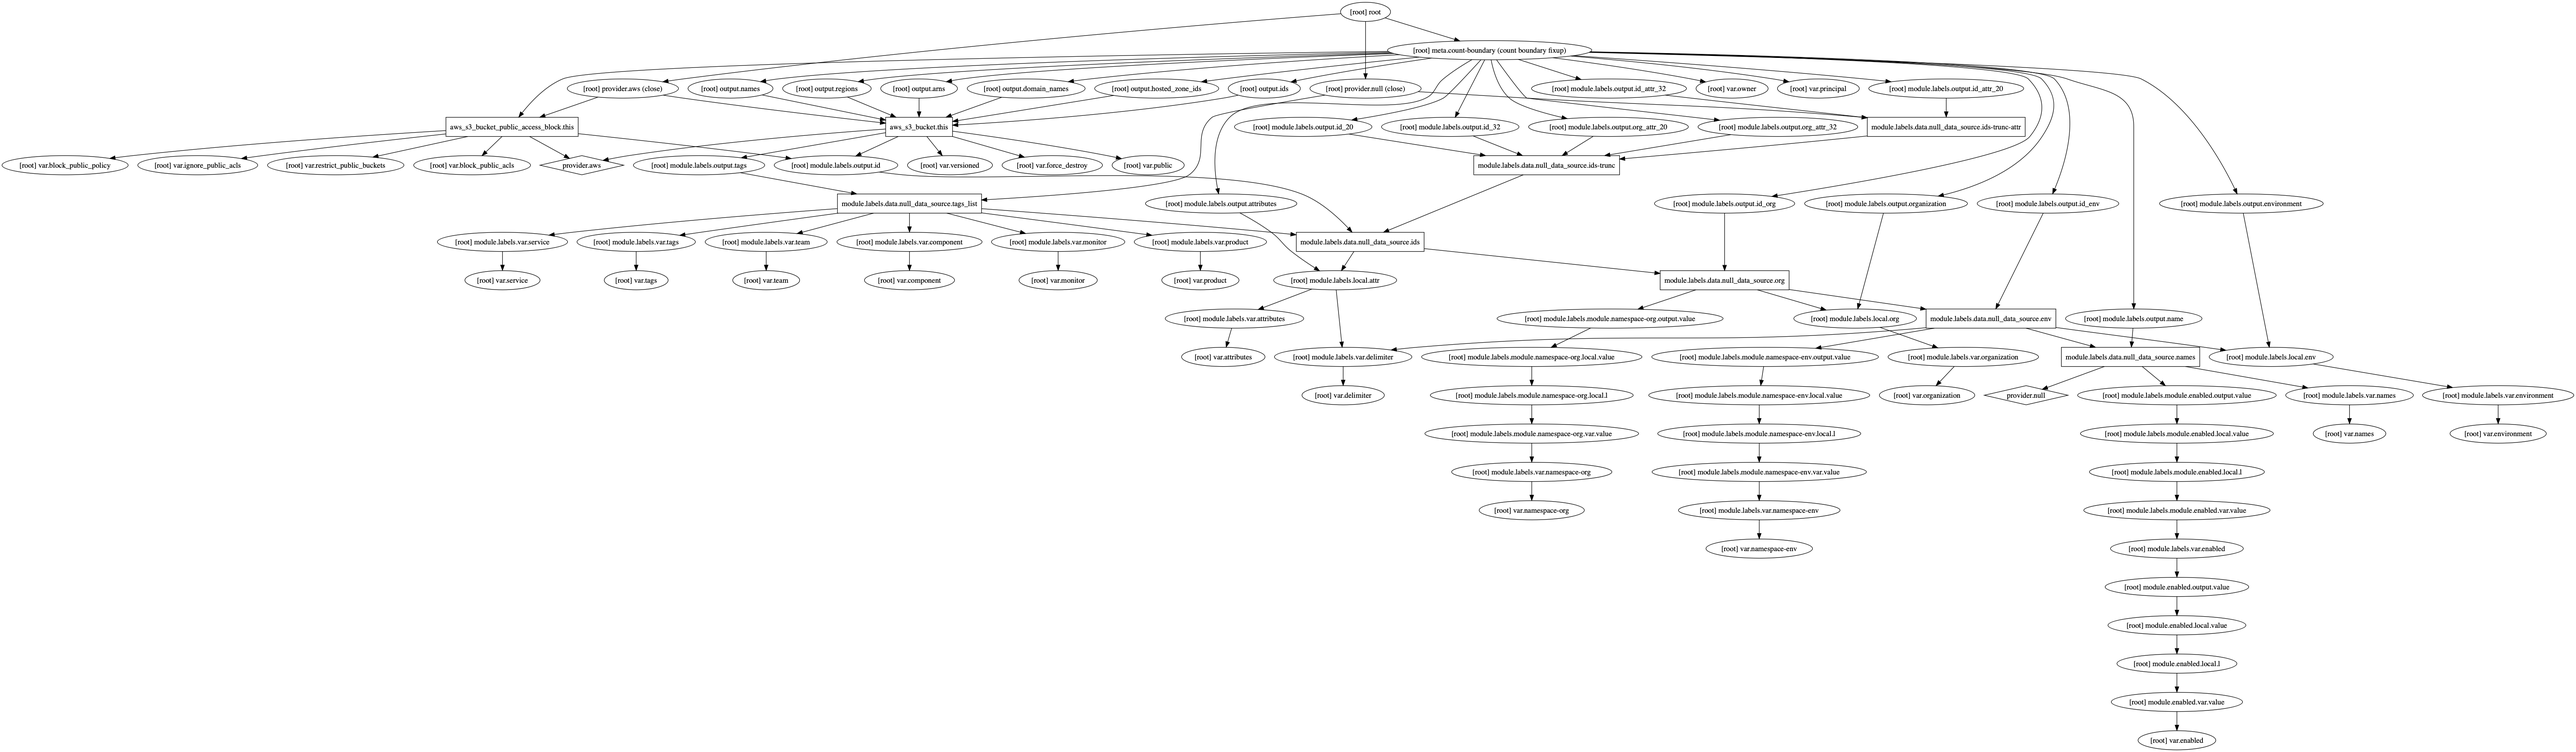
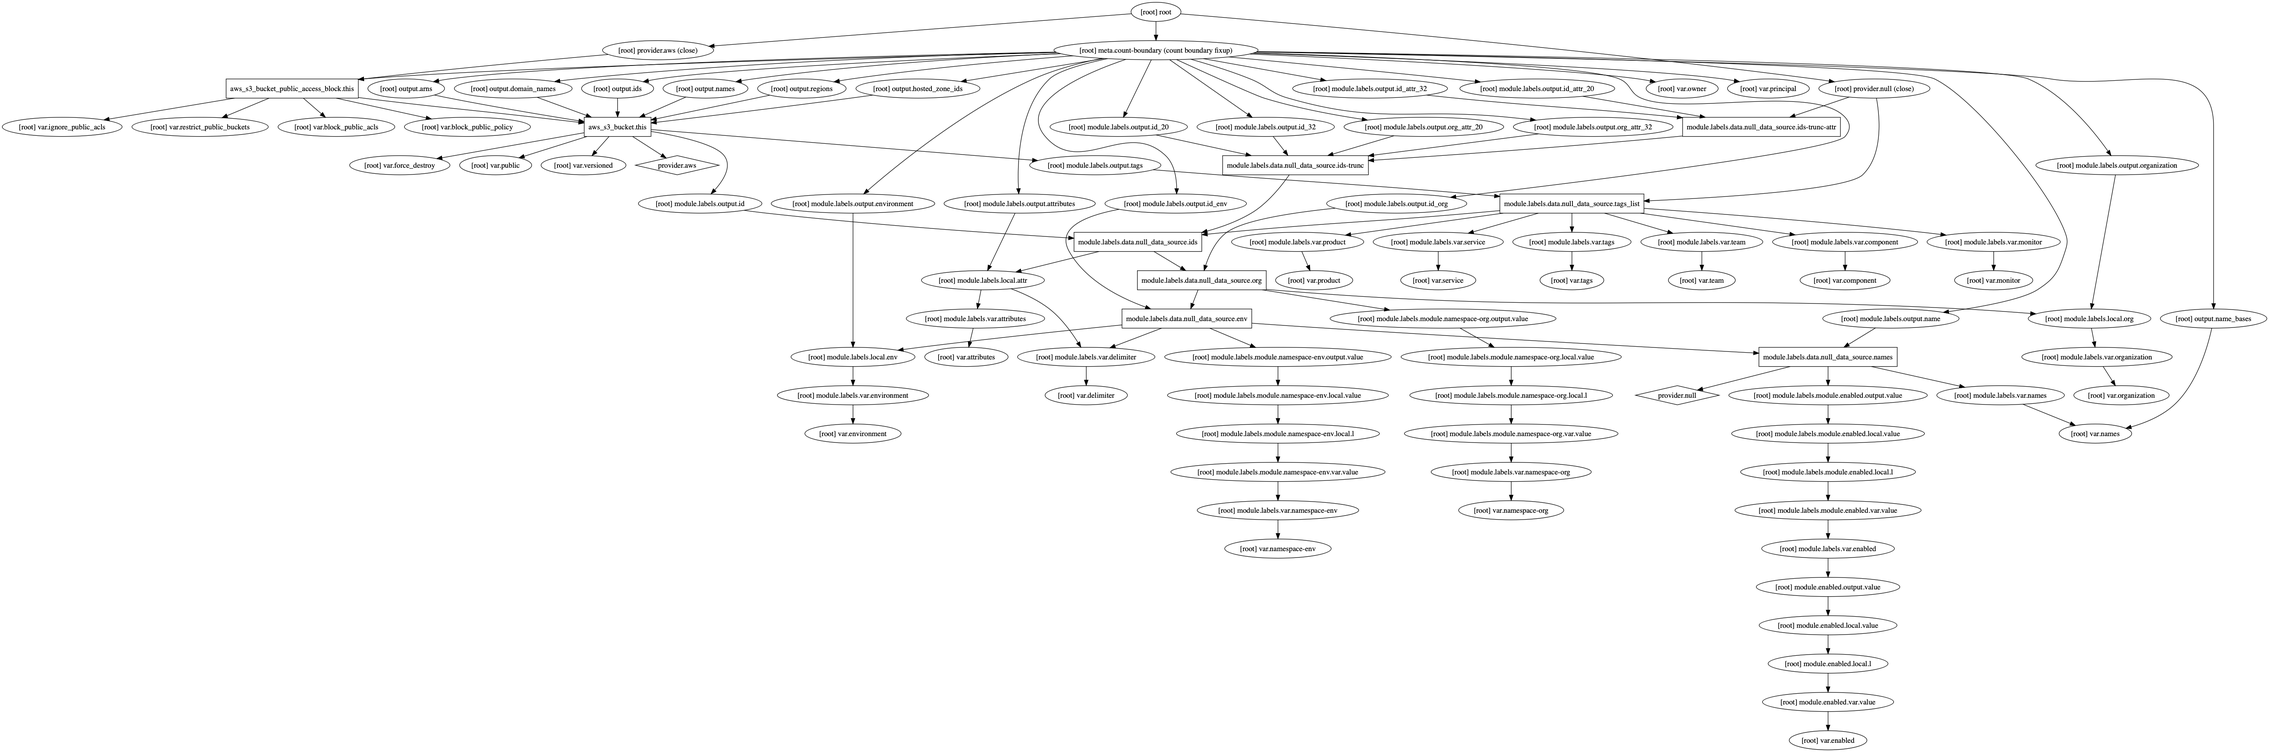
Output base names to use for lookups

diff --git a/examples/policy/README.md b/examples/policy/README.md
@@ -1,1 +1,25 @@
 # Example: Managing multiple S3 buckets and create policy for them
+
+<!-- BEGINNING OF PRE-COMMIT-TERRAFORM DOCS HOOK -->
+## Inputs
+
+| Name | Description | Type | Default | Required |
+|------|-------------|:----:|:-----:|:-----:|
+| environment |  | string | `"dev"` | no |
+| organization |  | string | `"testorg"` | no |
+| region |  | string | `"us-west-2"` | no |
+
+## Outputs
+
+| Name | Description |
+|------|-------------|
+| arns | List of AWS S3 Bucket ARNs |
+| domain\_names | List of AWS S3 Bucket Domain Names |
+| hosted\_zone\_ids | List of AWS S3 Bucket Hosted Zone IDs |
+| ids | List of AWS S3 Bucket IDs |
+| name\_bases | List of base names used to generate S3 bucket names |
+| names | List of AWS S3 Bucket Names |
+| policy | Unique to this example |
+| regions | List of AWS S3 Bucket Regions |
+
+<!-- END OF PRE-COMMIT-TERRAFORM DOCS HOOK -->

diff --git a/examples/none/README.md b/examples/none/README.md
@@ -1,1 +1,24 @@
 # Example: Disabled by providing an empty list
+
+<!-- BEGINNING OF PRE-COMMIT-TERRAFORM DOCS HOOK -->
+## Inputs
+
+| Name | Description | Type | Default | Required |
+|------|-------------|:----:|:-----:|:-----:|
+| environment |  | string | `"dev"` | no |
+| organization |  | string | `"testorg"` | no |
+| region |  | string | `"us-west-2"` | no |
+
+## Outputs
+
+| Name | Description |
+|------|-------------|
+| arns | List of AWS S3 Bucket ARNs |
+| domain\_names | List of AWS S3 Bucket Domain Names |
+| hosted\_zone\_ids | List of AWS S3 Bucket Hosted Zone IDs |
+| ids | List of AWS S3 Bucket IDs |
+| name\_bases | List of base names used to generate S3 bucket names |
+| names | List of AWS S3 Bucket Names |
+| regions | List of AWS S3 Bucket Regions |
+
+<!-- END OF PRE-COMMIT-TERRAFORM DOCS HOOK -->

diff --git a/examples/disabled/README.md b/examples/disabled/README.md
@@ -1,1 +1,24 @@
 # Example: Disabled by enabled variable
+
+<!-- BEGINNING OF PRE-COMMIT-TERRAFORM DOCS HOOK -->
+## Inputs
+
+| Name | Description | Type | Default | Required |
+|------|-------------|:----:|:-----:|:-----:|
+| environment |  | string | `"dev"` | no |
+| organization |  | string | `"testorg"` | no |
+| region |  | string | `"us-west-2"` | no |
+
+## Outputs
+
+| Name | Description |
+|------|-------------|
+| arns | List of AWS S3 Bucket ARNs |
+| domain\_names | List of AWS S3 Bucket Domain Names |
+| hosted\_zone\_ids | List of AWS S3 Bucket Hosted Zone IDs |
+| ids | List of AWS S3 Bucket IDs |
+| name\_bases | List of base names used to generate S3 bucket names |
+| names | List of AWS S3 Bucket Names |
+| regions | List of AWS S3 Bucket Regions |
+
+<!-- END OF PRE-COMMIT-TERRAFORM DOCS HOOK -->

diff --git a/examples/multiple/README.md b/examples/multiple/README.md
@@ -1,1 +1,24 @@
 # Example: Managing multiple S3 buckets
+
+<!-- BEGINNING OF PRE-COMMIT-TERRAFORM DOCS HOOK -->
+## Inputs
+
+| Name | Description | Type | Default | Required |
+|------|-------------|:----:|:-----:|:-----:|
+| environment |  | string | `"dev"` | no |
+| organization |  | string | `"testorg"` | no |
+| region |  | string | `"us-west-2"` | no |
+
+## Outputs
+
+| Name | Description |
+|------|-------------|
+| arns | List of AWS S3 Bucket ARNs |
+| domain\_names | List of AWS S3 Bucket Domain Names |
+| hosted\_zone\_ids | List of AWS S3 Bucket Hosted Zone IDs |
+| ids | List of AWS S3 Bucket IDs |
+| name\_bases | List of base names used to generate S3 bucket names |
+| names | List of AWS S3 Bucket Names |
+| regions | List of AWS S3 Bucket Regions |
+
+<!-- END OF PRE-COMMIT-TERRAFORM DOCS HOOK -->

diff --git a/examples/single/README.md b/examples/single/README.md
@@ -1,1 +1,24 @@
 # Example: Managing one S3 buckets
+
+<!-- BEGINNING OF PRE-COMMIT-TERRAFORM DOCS HOOK -->
+## Inputs
+
+| Name | Description | Type | Default | Required |
+|------|-------------|:----:|:-----:|:-----:|
+| environment |  | string | `"dev"` | no |
+| organization |  | string | `"testingorg"` | no |
+| region |  | string | `"us-west-2"` | no |
+
+## Outputs
+
+| Name | Description |
+|------|-------------|
+| arns | List of AWS S3 Bucket ARNs |
+| domain\_names | List of AWS S3 Bucket Domain Names |
+| hosted\_zone\_ids | List of AWS S3 Bucket Hosted Zone IDs |
+| ids | List of AWS S3 Bucket IDs |
+| name\_bases | List of base names used to generate S3 bucket names |
+| names | List of AWS S3 Bucket Names |
+| regions | List of AWS S3 Bucket Regions |
+
+<!-- END OF PRE-COMMIT-TERRAFORM DOCS HOOK -->

diff --git a/README.md b/README.md
@@ -40,8 +40,8 @@ AWS S3 Bucket Terraform Module
 
 Create multiple AWS S3 buckets and set policies
 
-## Usage
-
+Usage:
+------
 '''hcl
     module "s3-bucket" {
       source       = "../s3-bucket"
@@ -87,6 +87,7 @@ Create multiple AWS S3 buckets and set policies
 | domain\_names | List of AWS S3 Bucket Domain Names |
 | hosted\_zone\_ids | List of AWS S3 Bucket Hosted Zone IDs |
 | ids | List of AWS S3 Bucket IDs |
+| name\_bases | List of base names used to generate S3 bucket names |
 | names | List of AWS S3 Bucket Names |
 | regions | List of AWS S3 Bucket Regions |
 
